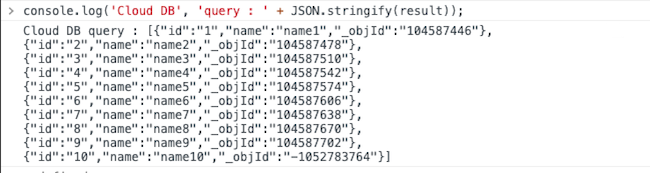
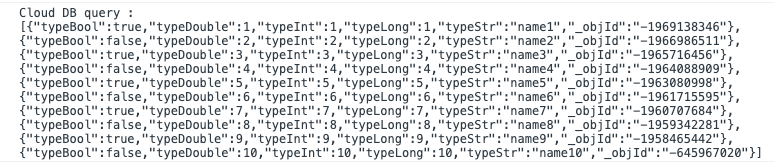
modify impor file and desc

diff --git a/en/cocos-service/agc-clouddb.md b/en/cocos-service/agc-clouddb.md
@@ -84,14 +84,14 @@ Most of HUAWEI Services need the `agconnect-services.json` configuration file. I
   ```js
   // "test" should to be replaced with the name of Storage instance
   let db = huawei.agc.db;
-  let config = db.AGCCloudDBZoneConfig.createConfig("test", db.SyncProperty.CLOUDDBZONE_CLOUD_CACHE);
-  let query = db.AGCCloudDBZoneQuery.where("test", "queryTest");
+  let config = db.AGCCloudDBZoneConfig.createConfig("Types", db.SyncProperty.CLOUDDBZONE_CLOUD_CACHE);
+  let query = db.AGCCloudDBZoneQuery.where("Types", "queryTest");
   let zone = db.dbService.openCloudDBZone(config, true);
   let result = zone.querySync(query, huawei.agc.db.QueryPolicy.POLICY_QUERY_FROM_CLOUD_PRIOR);
   console.log('Cloud DB', 'query : ' + JSON.stringify(result));
   ```
 
-- Download <a href="agc-clouddb/cdb-test.json.zip" target="_blank">database file</a> for test, import it into the AGC console after decompression.
+- Download <a href="agc-clouddb/cdb-agccloudedb.json.zip" target="_blank">database file</a> for test, import it into the AGC console after decompression.
 
   ![](agc-clouddb/cdb-importdb.png)
 

diff --git a/zh/cocos-service/agc-clouddb.md b/zh/cocos-service/agc-clouddb.md
@@ -86,14 +86,14 @@
   ```js
   // "test" 需替换为配置的对象类型名
   let db = huawei.agc.db;
-  let config = db.AGCCloudDBZoneConfig.createConfig("test", db.SyncProperty.CLOUDDBZONE_CLOUD_CACHE);
-  let query = db.AGCCloudDBZoneQuery.where("test", "queryTest");
+  let config = db.AGCCloudDBZoneConfig.createConfig("Types", db.SyncProperty.CLOUDDBZONE_CLOUD_CACHE);
+  let query = db.AGCCloudDBZoneQuery.where("Types", "queryTest");
   let zone = db.dbService.openCloudDBZone(config, true);
   let result = zone.querySync(query, huawei.agc.db.QueryPolicy.POLICY_QUERY_FROM_CLOUD_PRIOR);
   console.log('Cloud DB', 'query : ' + JSON.stringify(result));
   ```
 
-- 下载测试用的 <a href="agc-clouddb/cdb-test.json.zip" target="_blank">数据库文件</a>，解压后将其导入 AGC 后台。
+- 下载测试用的 <a href="agc-clouddb/cdb-agccloudedb.json.zip" target="_blank">数据库文件</a>，解压后将其导入 AGC 后台。
 
   ![](agc-clouddb/cdb-importdb.png)
 
